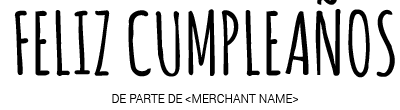
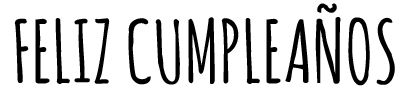
bday-2

Changed region(s): [[0.03, 0.0, 0.99, 0.9565], [0.33, 0.3478, 0.36, 0.3913]]

diff --git a/assets/css/birthday_1.css b/assets/css/birthday_1.css
@@ -6,16 +6,36 @@ body{
 	width: 650px;
 	height: 784px;
 	margin:0;
+	
+	text-align: center;
+}
+.container{
+	max-width: 650px;
+	min-height: 784px;
 	background-image: url(../img/mailing-16.png);
 	background-size: 650px;
 	background-repeat: no-repeat;
+	background-size: cover;
 }
+img#logo_cliente{
+	max-width: 90%;
+	max-height: 50%;
 
-.container{
+}
+img#bDay{
+	margin-top: 2rem;
+	margin-left: 2rem;
+}
+p{
+	font-size: 1.2rem;
+}
+h1, p{
+	margin-top: 2rem;
+	margin-left: 2rem;
 }
 footer{
 	position: absolute;
-	bottom: -5.25rem;
+	bottom: -36px;
 	left: 0;
 	text-align: center;
 	width: 650px;
@@ -34,22 +54,6 @@ div#logo-cliente{
 	align-items: center;
 	justify-content: center;
 
-}
-img#logo_cliente{
-	max-width: 90%;
-	max-height: 50%;
-
-}
-img#bDay{
-	margin-top: 2rem;
-	margin-left: 2rem;
-}
-p{
-	font-size: 1.2rem;
-}
-h1, p{
-	margin-top: 2rem;
-	margin-left: 2rem;
 }
 img#logo-recaudia{
 	height: 25px;

diff --git a/assets/css/birthday_2.css b/assets/css/birthday_2.css
@@ -1,0 +1,62 @@
+*{
+	margin:0;
+	padding: 0;
+}
+body{
+	width: 650px;
+	height: 784px;
+	margin:0;
+	text-align: center;
+}
+.container{
+	max-width: 650px;
+	min-height: 784px;
+}
+p{
+	font-size: 1.2rem;
+	margin-top: 1rem;
+	margin-left: 5%;
+	margin-right: 5%;
+	margin-bottom: 1rem;
+}
+p#nombre-cliente{
+
+}
+h1{
+	margin-top: 2rem;
+	margin-left: 1rem;
+}
+img#flags{
+	max-width: 650px;
+}
+img#boxes{
+	margin-top: 5rem;
+	max-width: 650px;
+}
+img#bDay{
+	margin-top: 2rem;
+	margin-left: 5%;
+	margin-right: 5%;
+}
+hr{
+	width: 90%;
+	margin-left: 4.5%;
+	height: 1.2px;
+	background-color: black;
+}
+p#nombre-cliente{
+	font-size: 1rem;
+}
+footer{
+	position: absolute;
+	bottom: -5.25rem;
+	left: 0;
+	text-align: center;
+	width: 650px;
+	background-color: black;
+	height: 36px;
+}
+img#logo-recaudia{
+	height: 25px;
+	margin-top: 5px;
+}

diff --git a/birthday_2.html b/birthday_2.html
@@ -1,0 +1,25 @@
+<!DOCTYPE html>
+<html>
+<head>
+	<title></title>
+	<meta charset="utf-8">
+	<link rel="stylesheet" type="text/css" href="assets/css/birthday_2.css">
+</head>
+<body>
+
+	<div class="container">
+		<img src="assets/img/mailing-13.png" id="flags">
+		<img src="assets/img/mailing-21.png" alt="Feliz Cumpleaños" id="bDay">
+		<p id="nombre-cliente">DE PARTE DE <span>{{ MERCHANT NAME }}</span></p>
+		<hr>
+		<h1>Hola <span id="nombre-donador">{{ nombre }}</span>,</h1>
+		<p>Queremos desearte un muy feliz cumpleaños y que pases un día estupendo de parte de todo nuestro equipo.</p>
+		<img src="assets/img/mailing-14.png" id="boxes">
+
+		<footer>
+			<img src="assets/img/mailing-15.png" alt="Code with love By Recaudia" id="logo-recaudia">
+		</footer>
+	</div>
+
+</body>
+</html>

diff --git a/birthday_1.html b/birthday_1.html
@@ -12,14 +12,14 @@
 			<img src="assets/img/mailing-19.png" alt="" id="logo_cliente">
 		</div>
 
-		<img src="assets/img/mailing-22.png" alt="Feliz Cumpleaños" id="bDay">
+		<img src="assets/img/mailing-21.png" alt="Feliz Cumpleaños" id="bDay">
 		<h1>Hola <span id="nombre-donador">{{ nombre }}</span>,</h1>
 		<p>Queremos desearte un muy feliz cumpleaños<br>y que pases un día estupendo de parte de<br>todo nuestro equipo.</p>
 
+		<footer>
+			<img src="assets/img/mailing-15.png" alt="Code with love By Recaudia" id="logo-recaudia">
+		</footer>
 	</div>
-	<footer>
-		<img src="assets/img/mailing-15.png" alt="Code with love By Recaudia" id="logo-recaudia">
-	</footer>
 
 </body>
 </html>

diff --git a/assets/css/footer-bday.css b/assets/css/footer-bday.css
@@ -1,0 +1,26 @@
+footer{
+	position: absolute;
+	bottom: -36px;
+	left: 0;
+	text-align: center;
+	width: 650px;
+	background-color: black;
+	height: 36px;
+}
+div#logo-cliente{
+	width: 136px;
+	height: 136px;
+	border-radius: 50%;
+	margin-top: 2rem;
+	margin-left: 2rem;
+	background-color: white;
+	text-align: center;
+	display: flex;
+	align-items: center;
+	justify-content: center;
+
+}
+img#logo-recaudia{
+	height: 25px;
+	margin-top: 5px;
+}
